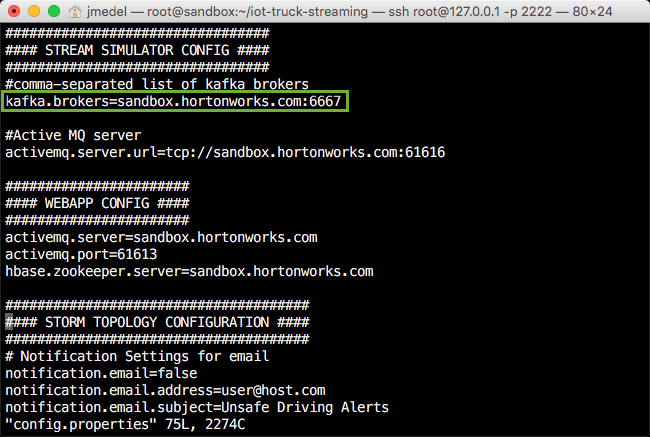
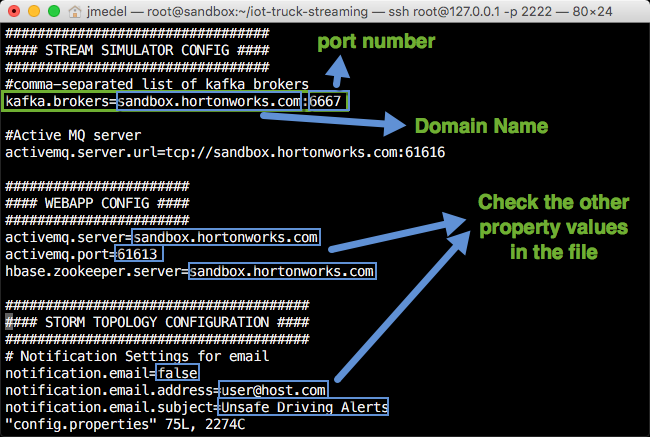
updated lab lab 0 and lab2
- added content to make instructions more clear

- revamped an image to improve clarity

diff --git a/tutorials/hortonworks/realtime-event-processing-with-hdf/rtep-1.md b/tutorials/hortonworks/realtime-event-processing-with-hdf/rtep-1.md
@@ -24,7 +24,7 @@ Apache NiFi can collect and transport data from numerous sources and provide int
 **Table 1: Virtual Machine Information** <a id="table1-virtual-machine-information"></a>
 
 | Parameter  | Value (VirtualBox)  | Value(VMware)  | Value(MS Azure)  |
-|---|---|---|---|
+|:---|:---:|:---:|---:|
 | Host Name  | 127.0.0.1  | 172.16.110.129  | 13.93.143.136 |
 | Port  | 2222  | 2222  | 22  |
 | Terminal Username  | root  | root  | {username-of-azure}  |
@@ -318,7 +318,7 @@ Now that the configuration in the nifi.properties file has been updated, we need
 Click the button that says **Port Forwarding**. Overwrite NiFi entry with the following values:
 
 | Name  | Protocol  | Host IP  | Host Port  | Guest IP  | Guest Port  |
-|---|---|---|---|---|---|
+|:---|:---:|:---:|:---:|:---:|---:|
 | NiFi  | TCP  | 127.0.0.1  | 6434  |   | 6434  |
 
 ![port_forward_nifi_iot](/assets/realtime-event-processing-with-hdf/lab0-nifi/port_forward_nifi_iot.png)
@@ -370,7 +370,7 @@ If you want to view and run the dataflow from the template, follow the steps bel
 
 1\. To open the template xml in NiFi, hover over to the management toolbar and click on the template icon ![template_icon_nifi_iot](/assets/realtime-event-processing-with-hdf/lab0-nifi/template_icon_nifi_iot.png). Click on the Browse button and find the dataflow xml file that you downloaded and click open. The template should appear in your NiFi Flow Templates spreadsheet.
 
-2\. To display your dataflow template xml onto the screen, drag the template icon from the components toolbar onto the graph. The dataflow should appear as in the dataflow image above, this dataflow will include the PutKafka processor. 
+2\. To display your dataflow template xml onto the screen, drag the template icon from the components toolbar onto the graph. The dataflow should appear as in the dataflow image above, this dataflow will include the PutKafka processor.
 
 > Note: We will need to add a topic name and activate the kafka service for dataflow to send data (messages) to the kafka cluster. Let's go to **[lab1](https://hortonworks.com/hadoop-tutorial/realtime-event-processing-nifi-kafka-storm/#section_4)** to make these configurations for Kafka.
 
@@ -418,10 +418,10 @@ If you would like to read more about configuring and connecting processors, refe
 **Table 1:** Update ExecuteProcess Property Values
 
 | Property  | Value  |
-|---|---|
+|:---|---:|
 | **Command**  | **sh**  |
-| Command Arguments  | `/root/iot-truck-streaming/stream-simulator/generate.sh`  |
-| Batch Duration  | 10 sec  |
+| `Command Arguments`  | `/root/iot-truck-streaming/stream-simulator/generate.sh`  |
+| `Batch Duration`  | `10 sec`  |
 
 **Command** instructs processor on what type of command to run
 **Command Arguments** inform processor which particular directory to look for script files
@@ -442,9 +442,9 @@ If you would like to read more about configuring and connecting processors, refe
 **Table 2:** Update SplitText Property Values
 
 | Property  | Value  |
-|---|---|
-| **Line Split Count**  | **1**  |
-| **Remove Trailing Newlines**  | **false**  |
+|:---|---:|
+| `Line Split Count`  | `1`  |
+| `Remove Trailing Newlines`  | `false`  |
 
 **Line Split Count** adds 1 line to each split FlowFile
 **Remove Trailing Newlines** controls whether newlines are removed at the end of each split file. With the value set to false, newlines are not removed.
@@ -464,8 +464,8 @@ If you would like to read more about configuring and connecting processors, refe
 **Table 3:** Update UpdateAttribute Property Value
 
 | Property  | Value  |
-|---|---|
-| filename  | `{UUID()}`  |
+|:---|---:|
+| `filename`  | `{UUID()}`  |
 
 **filename** uses NiFi Expression language to assign each FlowFile a unique name
 
@@ -482,9 +482,9 @@ If you would like to read more about configuring and connecting processors, refe
 **Table 4:** Update RouteOnContent Property Values
 
 | Property  | Value  |
-|---|---|
-| **Match Requirement**  | `content must contain match`  |
-| search_for_truck_event_data  | `(Normal)|(Overspeed)|(Lane Departure)|(Unsafe tail distance)|(Unsafe following distance)`  |
+|:---|---:|
+| `Match Requirement`  | `content must contain match`  |
+| `search_for_truck_event_data`  | `(Normal)|(Overspeed)|(Lane Departure)|(Unsafe tail distance)|(Unsafe following distance)`  |
 
 **Match Requirements** specifies condition for FlowFile to be transferred to next processor
 **search_for_truck_event_data** is Regex Expression that searches each FlowFile for the truck event keywords
@@ -504,9 +504,9 @@ If you would like to read more about configuring and connecting processors, refe
 **Table 5:** Update MergeContent(truck_events) Property Values
 
 | Property  | Value  |
-|---|---|
-| **Minimum Number of Entries**  | **50**  |
-| Maximum Number of Entries  | 70  |
+|:---|---:|
+| `Minimum Number of Entries`  | `50`  |
+| `Maximum Number of Entries`  | `70`  |
 
 **Minimum Number of Entries** specifies minimum amount of FlowFiles to gather at the queue before FlowFiles merge together
 **Maximum Number of Entries** specifies maximum amount of FlowFiles to gather at the queue before FlowFiles merge together
@@ -534,8 +534,8 @@ If you would like to read more about configuring and connecting processors, refe
 **Table 6:** Update PutFile(truck_events) Property Values
 
 | Property  | Value  |
-|---|---|
-| **Directory**  | `/root/nifi_output/truck_events`  |
+|:---|---:|
+| `Directory`  | `/root/nifi_output/truck_events`  |
 
 **Directory** instructs processor which directory to store the output data files
 
@@ -554,8 +554,8 @@ If you would like to read more about configuring and connecting processors, refe
 Table 7: Update PutFile(logs) Property Values
 
 | Property  | Value  |
-|---|---|
-| **Directory**  | `/root/nifi_output/log_data`  |
+|:---|---:|
+| `Directory`  | `/root/nifi_output/log_data`  |
 
 ![putfile_properties_config_logs_nifi_iot](/assets/realtime-event-processing-with-hdf/lab0-nifi/putfile_properties_config_logs_nifi_iot.png)
 

diff --git a/tutorials/hortonworks/realtime-event-processing-with-hdf/rtep-3.md b/tutorials/hortonworks/realtime-event-processing-with-hdf/rtep-3.md
@@ -126,11 +126,11 @@ The first table stores all events generated, the second stores the 'driverId' an
 
 [hbase@sandbox root]$ hbase shell
 
-hbase(main):001:0> create 'driver_events', 'allevents'    
-hbase(main):002:0> create 'driver_dangerous_events', 'events'
-hbase(main):003:0> create 'driver_dangerous_events_count', 'counters'
-hbase(main):004:0> list    
-hbase(main):005:0> exit
+create 'driver_events', 'allevents'    
+create 'driver_dangerous_events', 'events'
+create 'driver_dangerous_events_count', 'counters'
+list    
+exit
 ~~~
 
 > Note: 'driver_events' is the table name and 'allevents' is column family. In the script above, we have one column family. Yet, if we want we can have multiple column families. We just need to include more arguments.
@@ -259,10 +259,11 @@ chmod -R 777 /tmp/hive/
 
 Since this tutorial series is based on part of the trucking demo, there are many modules that need to be setup for the demo outside the scope of the tutorial. We manually setup NiFi, Kafka, HBase and Hive for the demo. Since there are other particular modules in the demo irrelevant from what we are learning in the lab series, we will run an automation script to setup the other modules that way we will be able to use storm for ingesting data in HBase and HDFS with no issues.
 
-1\. Update ambari admin login variables defined at the top in **user-env.sh** file, so the automation script can have the privileges to setup the demo modules. Enter the **username and password** you use to login into to Ambari as an admin. Open a terminal, type:
+1\. Let's navigate to the `iot-truck-streaming` folder. Update ambari admin login variables defined at the top in **user-env.sh** file, so the automation script can have the privileges to setup the demo modules. Enter the **username and password** you use to login into to Ambari as an admin. Open a terminal, type:
 
 ~~~
-vi ~/iot-truck-streaming/user-env.sh
+cd ~/iot-truck-streaming
+vi user-env.sh
 ~~~
 
 The file will open as in the image below:
@@ -273,27 +274,28 @@ For the ambari configuration credentials: user='admin', pass=what you set it up 
 
 Press `esc` and then type `:wq` to exit the editor.
 
-2\. After you update the **user-env.sh** file, we will also need to verify whether the hostnames in the **config.properties** file match the appropriate hostnames for services on HDP. If they do not match, then update the hostname. For example, let's check the **kafka.brokers** host, open Ambari dashboard. Hover to the left side bar, click on **Kafka**. At the top next to the `Summary` tab, click on the `Configs` tab. Under **Kafka Broker** Section, examine **Kafka Broker host** and **listeners** field. You should see the following image:
+2\. After you update the **user-env.sh** file, we will also need to verify whether the **domain name** and their associated **port number** in the **config.properties** file match the appropriate (domain name & port number) for services on HDP, Ambari configurations. If they do not match, then update the value. For example, let's check the **kafka.brokers** host, open Ambari dashboard. Hover to the left side bar, click on **Kafka**. At the top next to the `Summary` tab, click on the `Configs` tab. Under **Kafka Broker** Section, examine **Kafka Broker host** and **listeners** field. You should see the following image:
 
 ![kafka_broker_hostname_verify](/assets/realtime-event-processing-with-hdf/lab2-hbase-hive-storm/kafka_broker_hostname_verify.png)
 
-Notice Kafka Broker host = sandbox.hortonworks.com
-Listeners = localhost:6667
+Now to obtain the domain name & port number, we will combine domain name from Kafka Broker host and port number from listeners field.
 
-Thus, our **Kafka Broker and Listenrs host** = `sandbox.hortonworks.com:6667`
+- Notice Kafka Broker host = sandbox.hortonworks.com
+- Listeners = localhost:6667
 
-In our **config.properties** file, under Stream Simulator Config, it shows:
+Thus, our **Kafka Broker and Listeners host** = `sandbox.hortonworks.com:6667`
+
+In our **config.properties** file, under Stream Simulator Config section, it shows:
 
 ![config_properties_file_verify_hosts_match](/assets/realtime-event-processing-with-hdf/lab2-hbase-hive-storm/config_properties_file_verify_hosts_match.png)
 
 > Note: In the config.properties file Kafka.brokers=sandbox.hortonworks.com:6667
 
-Since the **kafka.brokers** hostname in the **config.properties** file matches kafka brokers hostname on HDP, we verified that hostname is up to date. Now let’s verify the other hostnames in the config.properties file match the ones on HDP. If there is a mismatch, update the config.properties file.
+Since the **kafka.brokers** property value in the **config.properties** file matches the combined value of Kafka Brokers and Listeners from Ambari Configuration, we verified that this property value is up to date. Now let’s verify the other property values in the **config.properties** file match the ones in Ambari Configuration. If there is a mismatch, update the config.properties file.
 
-3\. Now we can run the installdemo.sh script to automatically setup the background services for the trucking demo. Type the following command:
+3\. Now we can run the **installdemo.sh** script to automatically setup the background services for the trucking demo. Type the following command:
 
 ~~~
-cd iot-truck-streaming/
 ./installdemo.sh
 ~~~
 
@@ -390,11 +392,11 @@ Stop the NiFi DataFlow to no longer send messages to Kafka. Now go back to the s
 ~~~
 [root@sandbox Tutorials-master]# hbase shell
 
-hbase(main):001:0> list
-hbase(main):002:0> count 'driver_events'
-hbase(main):003:0> count 'driver_dangerous_events'
-hbase(main):004:0> count 'driver_dangerous_events_count'    
-hbase(main):005:0> exit
+list
+count 'driver_events'
+count 'driver_dangerous_events'
+count 'driver_dangerous_events_count'    
+exit
 ~~~
 
 The `driver_dangerous_events` table is updated upon every violation.

diff --git a/tutorials/hortonworks/realtime-event-processing-with-hdf/rtep-concepts.md b/tutorials/hortonworks/realtime-event-processing-with-hdf/rtep-concepts.md
@@ -69,7 +69,7 @@ Apache Kafka supports a wide range of use cases as a general-purpose messaging s
 Some of the important characteristics that make Kafka such an attractive option for these use cases include the following:
 
 | Feature | Description |
-|---------|-------------|
+|:---------|-------------:|
 | Scalability | Distributed messaging system scales easily with no downtime |
 | Durability | Persists messages on disk, and provides intra-cluster replication |
 | Reliability | Replicates data, supports multiple consumers, and automatically balances consumers in case of failure |
@@ -122,7 +122,7 @@ Here are some typical "prevent" and "optimize" use cases for Storm.
 
 
 |---|"Prevent" Use Cases| "Optimize" Use Cases |
-|---|-------------------|----------------------|
+|:---|:-------------------:|----------------------:|
 | Financial Services | Securities fraud, Operational risks & compliance violations | Order routing, Pricing |
 | Telecom | Security breaches, Network outages | Bandwidth allocation, Customer service |
 | Retail | Shrinkage, Stock outs | Offers, Pricing |
